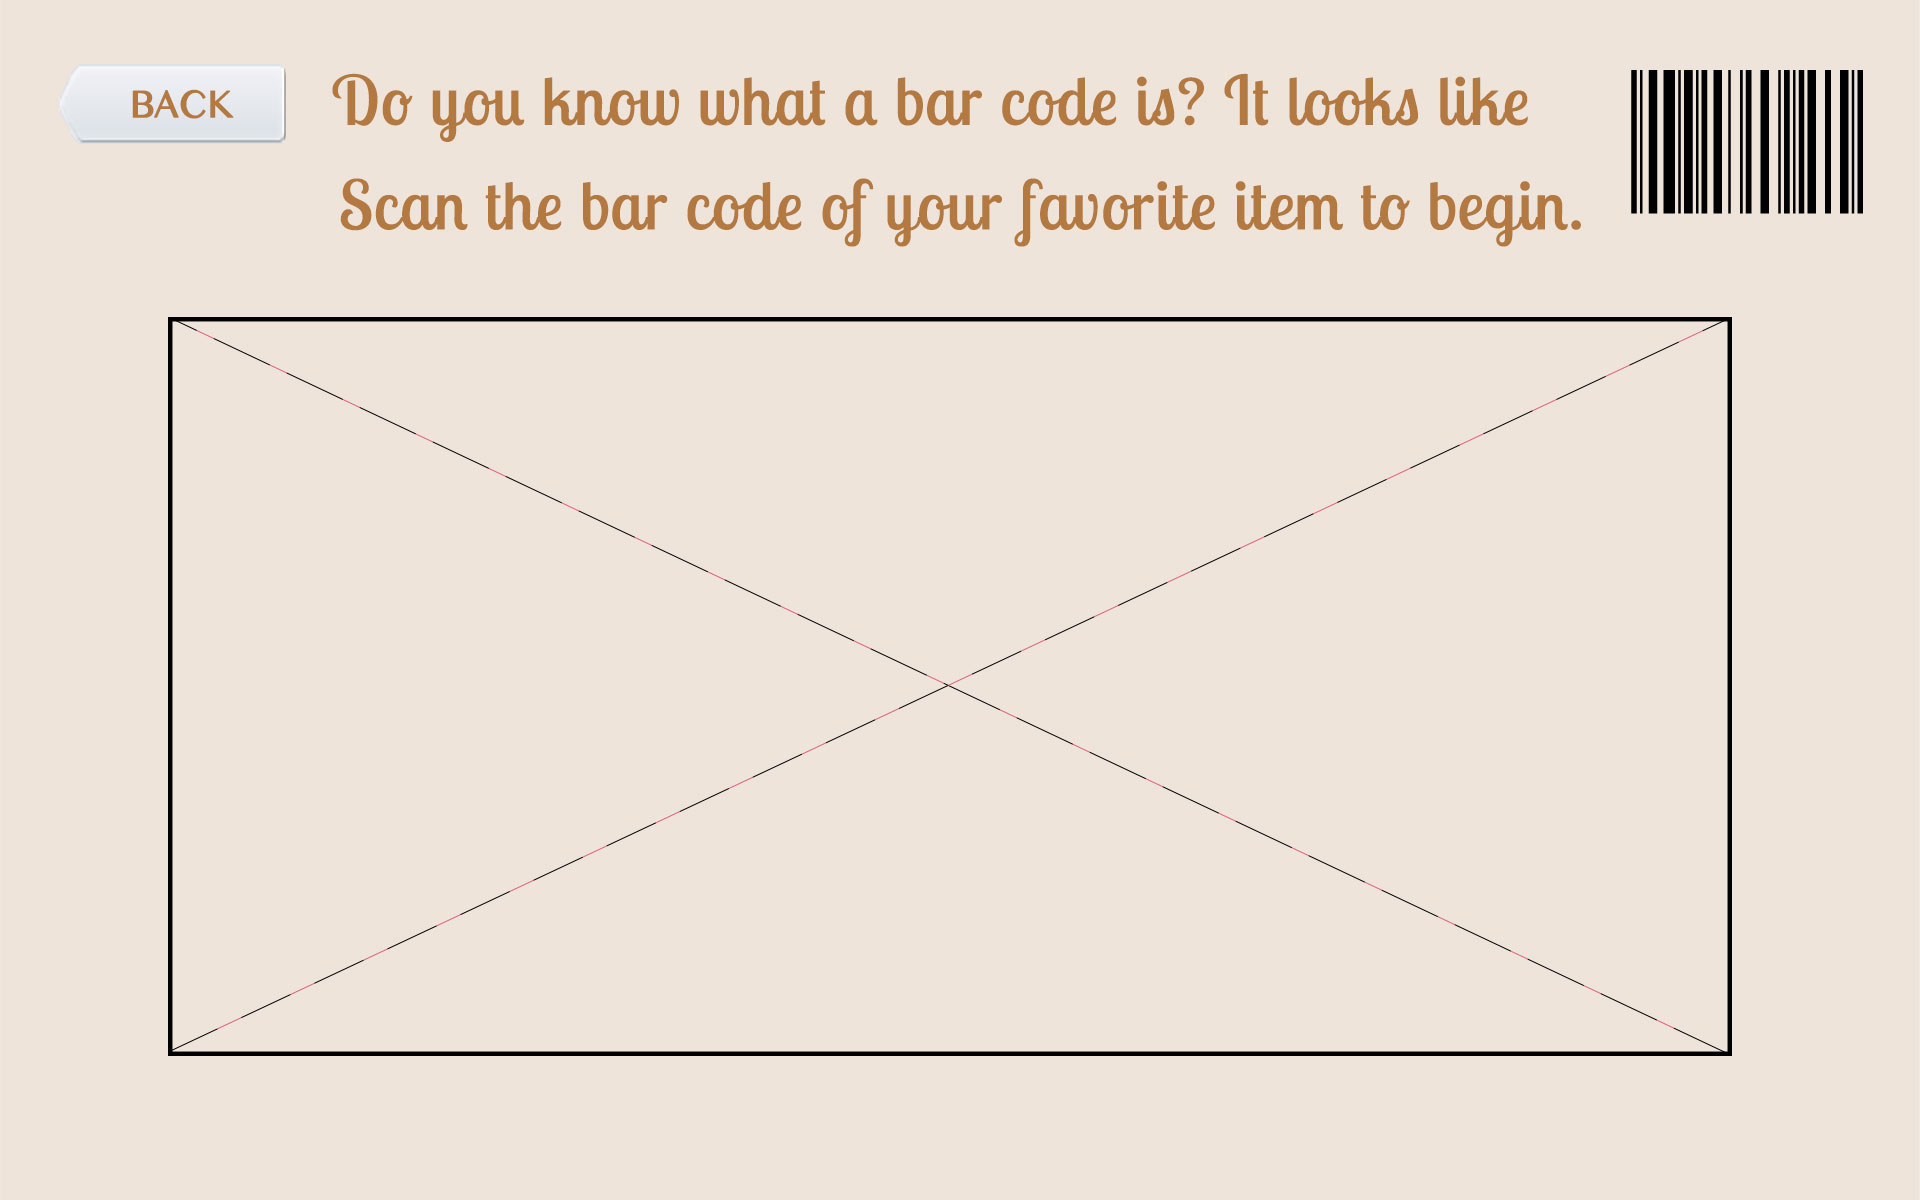
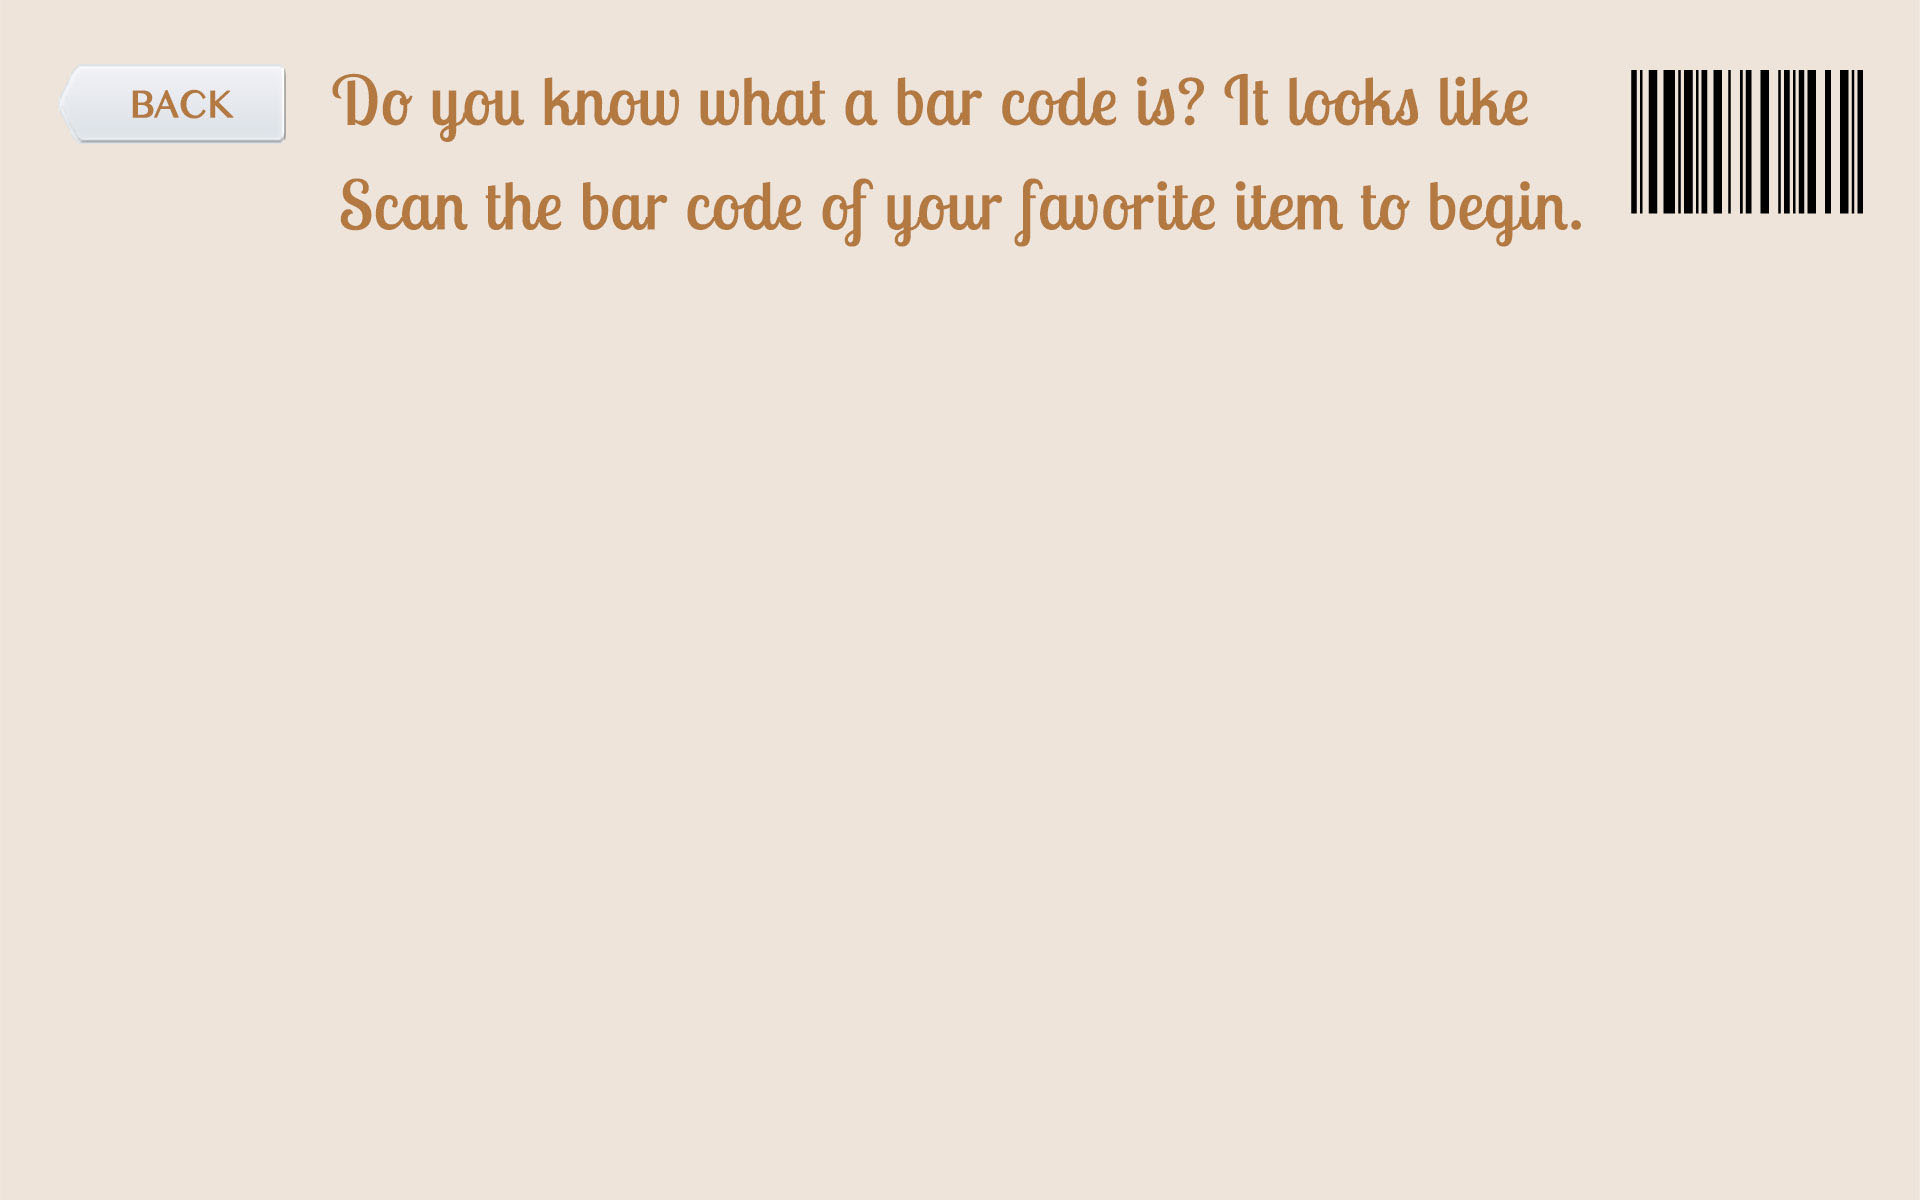
video scanning prototyping

Changed region(s): [[0.0938, 0.2467, 0.9062, 0.3083], [0.0938, 0.8633, 0.9062, 0.8942]]

diff --git a/scanning_cheese.html b/scanning_cheese.html
@@ -14,6 +14,50 @@
         <area shape="rect" coords="56,52,309,150" style="outline:none;" href="details_tomato.html"     />
         <area shape="rect" coords="159,309,1742,1064" href="details_cheese.html" />
     </map>
+    <div id="snap" class="sexyButton"><video id="video" width="1560" height="720" autoplay></video></div>
+<div id="snap-taken"><a href="details_cheese.html"><canvas id="canvas" width="960" height="720"></canvas></a></div>
+    <script>
+
+
+        // Put event listeners into place
+        window.addEventListener("DOMContentLoaded", function() {
+            // Grab elements, create settings, etc.
+            var canvas = document.getElementById("canvas"),
+                context = canvas.getContext("2d"),
+                video = document.getElementById("video"),
+                videoObj = { "video": true },
+                errBack = function(error) {
+                    console.log("Video capture error: ", error.code); 
+                };
+
+            // Put video listeners into place
+            if(navigator.getUserMedia) { // Standard
+                navigator.getUserMedia(videoObj, function(stream) {
+                    video.src = stream;
+                    video.play();
+                }, errBack);
+            } else if(navigator.webkitGetUserMedia) { // WebKit-prefixed
+                navigator.webkitGetUserMedia(videoObj, function(stream){
+                    video.src = window.webkitURL.createObjectURL(stream);
+                    video.play();
+                }, errBack);
+            } else if(navigator.mozGetUserMedia) { // WebKit-prefixed
+                navigator.mozGetUserMedia(videoObj, function(stream){
+                    video.src = window.URL.createObjectURL(stream);
+                    video.play();
+                }, errBack);
+            }
+            // Trigger photo take
+            document.getElementById("snap").addEventListener("click", function() {
+                context.drawImage(video, 0, 0, 960, 720);
+                $('#snap').hide();
+                $('#snap-taken').show();
+            });
+        }, false);
+
+    
+    </script>
 </div>
+
 </body>
 </html>

diff --git a/scanning_chicken.html b/scanning_chicken.html
@@ -14,6 +14,49 @@
         <area shape="rect" coords="56,52,309,150" style="outline:none;" href="details_cheese.html"     />
         <area shape="rect" coords="159,309,1742,1064" href="details_chicken.html" />
     </map>
+    <div id="snap" class="sexyButton"><video id="video" width="1560" height="720" autoplay></video></div>
+<div id="snap-taken"><a href="details_chicken.html"><canvas id="canvas" width="960" height="720"></canvas></a></div>
+    <script>
+
+
+        // Put event listeners into place
+        window.addEventListener("DOMContentLoaded", function() {
+            // Grab elements, create settings, etc.
+            var canvas = document.getElementById("canvas"),
+                context = canvas.getContext("2d"),
+                video = document.getElementById("video"),
+                videoObj = { "video": true },
+                errBack = function(error) {
+                    console.log("Video capture error: ", error.code); 
+                };
+
+            // Put video listeners into place
+            if(navigator.getUserMedia) { // Standard
+                navigator.getUserMedia(videoObj, function(stream) {
+                    video.src = stream;
+                    video.play();
+                }, errBack);
+            } else if(navigator.webkitGetUserMedia) { // WebKit-prefixed
+                navigator.webkitGetUserMedia(videoObj, function(stream){
+                    video.src = window.webkitURL.createObjectURL(stream);
+                    video.play();
+                }, errBack);
+            } else if(navigator.mozGetUserMedia) { // WebKit-prefixed
+                navigator.mozGetUserMedia(videoObj, function(stream){
+                    video.src = window.URL.createObjectURL(stream);
+                    video.play();
+                }, errBack);
+            }
+            // Trigger photo take
+            document.getElementById("snap").addEventListener("click", function() {
+                context.drawImage(video, 0, 0, 960, 720);
+                $('#snap').hide();
+                $('#snap-taken').show();
+            });
+        }, false);
+
+    
+    </script>
 </div>
 </body>
 </html>

diff --git a/scanning_tomato.html b/scanning_tomato.html
@@ -14,6 +14,49 @@
         <area shape="rect" coords="56,52,309,150" style="outline:none;" href="details_broccoli.html"     />
         <area shape="rect" coords="159,309,1742,1064" href="details_tomato.html" />
     </map>
+    <div id="snap" class="sexyButton"><video id="video" width="1560" height="720" autoplay></video></div>
+<div id="snap-taken"><a href="details_tomato.html"><canvas id="canvas" width="960" height="720"></canvas></a></div>
+    <script>
+
+
+        // Put event listeners into place
+        window.addEventListener("DOMContentLoaded", function() {
+            // Grab elements, create settings, etc.
+            var canvas = document.getElementById("canvas"),
+                context = canvas.getContext("2d"),
+                video = document.getElementById("video"),
+                videoObj = { "video": true },
+                errBack = function(error) {
+                    console.log("Video capture error: ", error.code); 
+                };
+
+            // Put video listeners into place
+            if(navigator.getUserMedia) { // Standard
+                navigator.getUserMedia(videoObj, function(stream) {
+                    video.src = stream;
+                    video.play();
+                }, errBack);
+            } else if(navigator.webkitGetUserMedia) { // WebKit-prefixed
+                navigator.webkitGetUserMedia(videoObj, function(stream){
+                    video.src = window.webkitURL.createObjectURL(stream);
+                    video.play();
+                }, errBack);
+            } else if(navigator.mozGetUserMedia) { // WebKit-prefixed
+                navigator.mozGetUserMedia(videoObj, function(stream){
+                    video.src = window.URL.createObjectURL(stream);
+                    video.play();
+                }, errBack);
+            }
+            // Trigger photo take
+            document.getElementById("snap").addEventListener("click", function() {
+                context.drawImage(video, 0, 0, 960, 720);
+                $('#snap').hide();
+                $('#snap-taken').show();
+            });
+        }, false);
+
+    
+    </script>
 </div>
 </body>
 </html>

diff --git a/scanning_coke.html b/scanning_coke.html
@@ -14,6 +14,49 @@
         <area shape="rect" coords="56,52,309,150" style="outline:none;" href="details_chicken.html"     />
         <area shape="rect" coords="159,309,1742,1064" href="details_coke.html" />
     </map>
+    <div id="snap" class="sexyButton"><video id="video" width="1560" height="720" autoplay></video></div>
+<div id="snap-taken"><a href="details_coke.html"><canvas id="canvas" width="960" height="720"></canvas></a></div>
+    <script>
+
+
+        // Put event listeners into place
+        window.addEventListener("DOMContentLoaded", function() {
+            // Grab elements, create settings, etc.
+            var canvas = document.getElementById("canvas"),
+                context = canvas.getContext("2d"),
+                video = document.getElementById("video"),
+                videoObj = { "video": true },
+                errBack = function(error) {
+                    console.log("Video capture error: ", error.code); 
+                };
+
+            // Put video listeners into place
+            if(navigator.getUserMedia) { // Standard
+                navigator.getUserMedia(videoObj, function(stream) {
+                    video.src = stream;
+                    video.play();
+                }, errBack);
+            } else if(navigator.webkitGetUserMedia) { // WebKit-prefixed
+                navigator.webkitGetUserMedia(videoObj, function(stream){
+                    video.src = window.webkitURL.createObjectURL(stream);
+                    video.play();
+                }, errBack);
+            } else if(navigator.mozGetUserMedia) { // WebKit-prefixed
+                navigator.mozGetUserMedia(videoObj, function(stream){
+                    video.src = window.URL.createObjectURL(stream);
+                    video.play();
+                }, errBack);
+            }
+            // Trigger photo take
+            document.getElementById("snap").addEventListener("click", function() {
+                context.drawImage(video, 0, 0, 960, 720);
+                $('#snap').hide();
+                $('#snap-taken').show();
+            });
+        }, false);
+
+    
+    </script>
 </div>
 </body>
 </html>

diff --git a/scanning_broccoli.html b/scanning_broccoli.html
@@ -14,9 +14,8 @@
         <area shape="rect" coords="56,52,309,150" style="outline:none;" href="tutorial.html"     />
         <area shape="rect" coords="159,309,1742,1064" href="details_broccoli.html" />
     </map>
-<video id="video" width="1280" height="960" autoplay></video>
-<button id="snap" class="sexyButton">Snap Photo</button>
-<canvas id="canvas" width="640" height="480"></canvas>
+<div id="snap" class="sexyButton"><video id="video" width="1560" height="720" autoplay></video></div>
+<div id="snap-taken"><a href="details_broccoli.html"><canvas id="canvas" width="960" height="720"></canvas></a></div>
     <script>
 
 
@@ -48,10 +47,11 @@
                     video.play();
                 }, errBack);
             }
-console.log("boo");
             // Trigger photo take
             document.getElementById("snap").addEventListener("click", function() {
-                context.drawImage(video, 0, 0, 640, 480);
+                context.drawImage(video, 0, 0, 960, 720);
+                $('#snap').hide();
+                $('#snap-taken').show();
             });
         }, false);
 

diff --git a/theme.css b/theme.css
@@ -33,8 +33,15 @@ body, html {
 #video {
   z-index: 500;
   position: absolute;
-  top: 200px;
-  left: 200px;
+  top: 320px;
+  left: 170px;
+}
+#snap-taken {
+  display: none;
+  z-index: 501;
+  position: absolute;
+  top: 320px;
+  left: 480px;
 }
 .apple {
   background-image: url('images/apple2.png');
